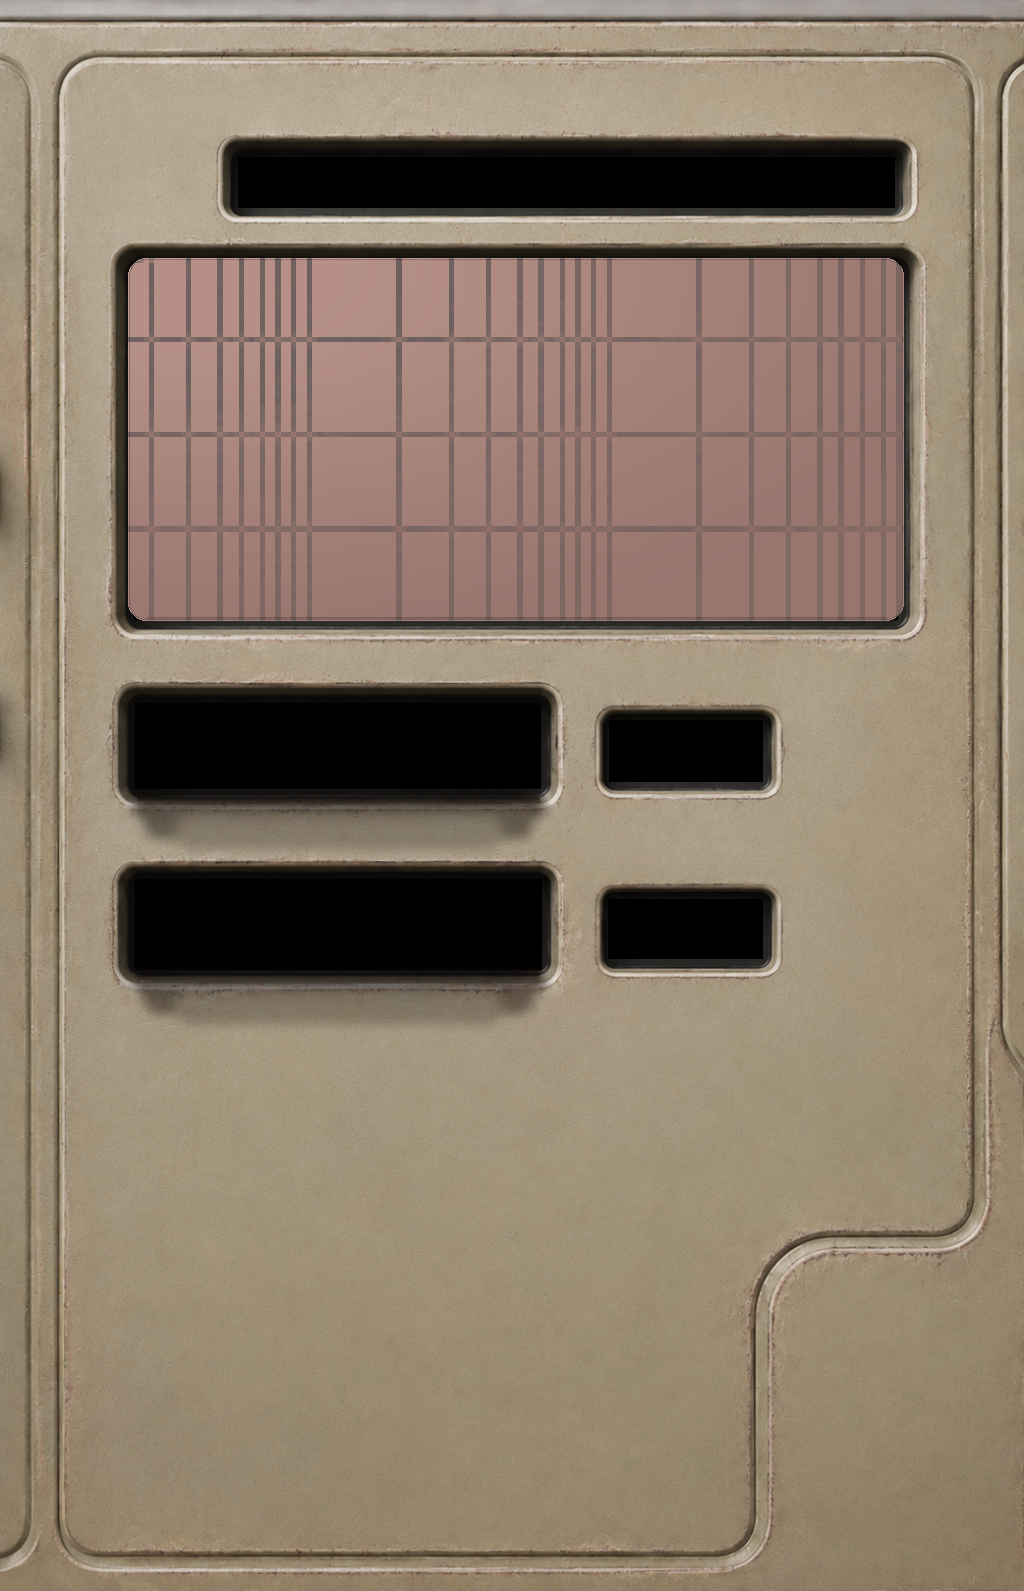
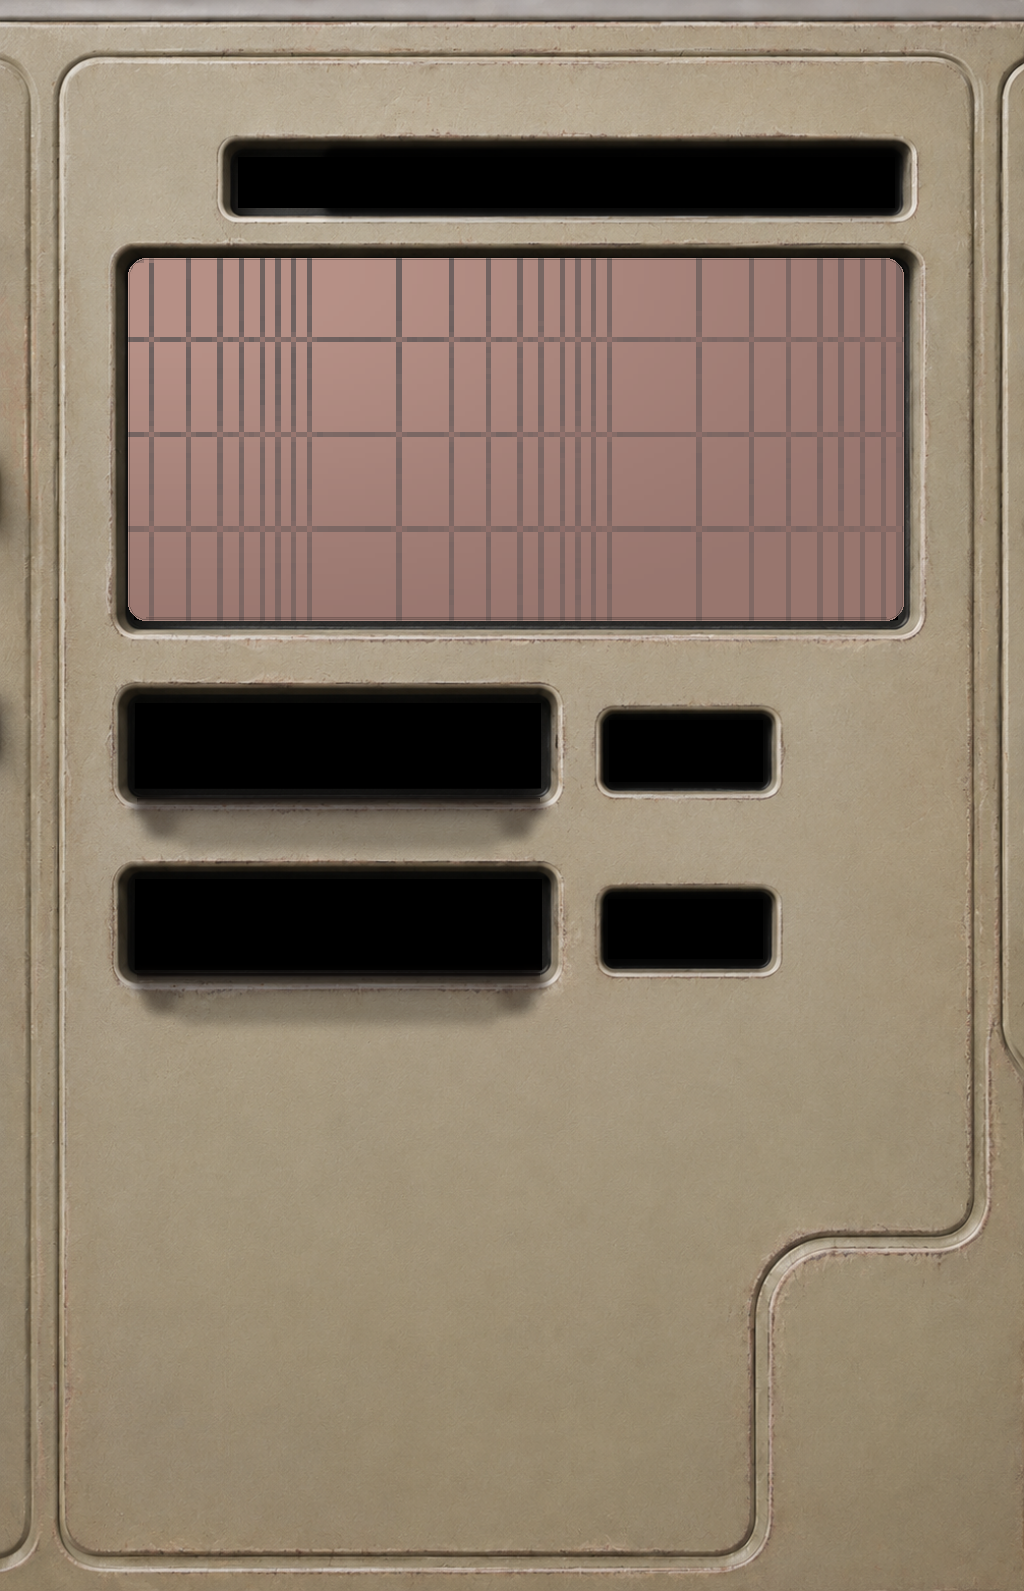
wip(juce-shell): editor Timer + asset updates (found in working tree)
Not authored this session by the Forge work — PluginEditor gains a
juce::Timer and two UI PNGs changed while the painter redesign ran.
Committed separately so the Forge commits stay coherent.

Changed region(s): [[0.3125, 0.1232, 0.875, 0.154], [0.5938, 0.462, 0.75, 0.5236], [0.5938, 0.5852, 0.75, 0.616]]

diff --git a/juce-shell/source/PluginEditor.cpp b/juce-shell/source/PluginEditor.cpp
@@ -1,5 +1,6 @@
 #include "PluginEditor.h"
 #include "BinaryData.h"
+#include "TrenchBodyRoster.h"
 
 namespace
 {
@@ -45,6 +46,27 @@ juce::Rectangle<float> qWheelWell()
 {
     return sourceRectToEditor ({ 127.0f, 871.0f, 423.0f, 101.0f });
 }
+
+juce::Rectangle<float> typeSelectorWell()
+{
+    return sourceRectToEditor ({ 230.0f, 142.0f, 672.0f, 73.0f });
+}
+
+juce::Rectangle<float> morphReadoutWell()
+{
+    return sourceRectToEditor ({ 603.0f, 712.0f, 168.0f, 77.0f });
+}
+
+juce::Rectangle<float> qReadoutWell()
+{
+    return sourceRectToEditor ({ 602.0f, 889.0f, 169.0f, 79.0f });
+}
+
+juce::Font displayFont (float height, bool bold = false)
+{
+    return juce::Font (juce::FontOptions (juce::Font::getDefaultSansSerifFontName(), height,
+                                          bold ? juce::Font::bold : juce::Font::plain));
+}
 }
 
 PluginEditor::PluginEditor (PluginProcessor& p)
@@ -71,6 +93,33 @@ PluginEditor::PluginEditor (PluginProcessor& p)
     setupSlider (morphSlider);
     setupSlider (qSlider);
 
+    bodySelector.setWantsKeyboardFocus (true);
+    bodySelector.setColour (juce::ComboBox::backgroundColourId, juce::Colours::transparentBlack);
+    bodySelector.setColour (juce::ComboBox::outlineColourId, juce::Colours::transparentBlack);
+    bodySelector.setColour (juce::ComboBox::buttonColourId, juce::Colours::transparentBlack);
+    bodySelector.setColour (juce::ComboBox::arrowColourId, juce::Colours::transparentBlack);
+    bodySelector.setColour (juce::ComboBox::textColourId, juce::Colours::transparentBlack);
+    bodySelector.setTextWhenNothingSelected ({});
+    populateBodySelector();
+    bodySelector.onChange = [this]
+    {
+        if (syncingBodySelector)
+            return;
+
+        const auto selectedIndex = bodySelector.getSelectedId() - 1;
+        if (selectedIndex < 0)
+            return;
+
+        if (auto* parameter = processor.apvts.getParameter (ParamID::body))
+        {
+            parameter->beginChangeGesture();
+            parameter->setValueNotifyingHost (parameter->convertTo0to1 ((float) selectedIndex));
+            parameter->endChangeGesture();
+        }
+    };
+    addAndMakeVisible (bodySelector);
+    syncBodySelectorToParameter();
+
     morphHitTarget.setInterceptsMouseClicks (true, false);
     qHitTarget.setInterceptsMouseClicks (true, false);
     morphHitTarget.setAlwaysOnTop (true);
@@ -86,6 +135,7 @@ PluginEditor::PluginEditor (PluginProcessor& p)
     setOpaque (true);
     setResizable (false, false);
     setSize (kEditorWidth, kEditorHeight);
+    startTimerHz (24);
 }
 
 PluginEditor::~PluginEditor()
@@ -101,11 +151,17 @@ void PluginEditor::paint (juce::Graphics& g)
     if (panelImage.isValid())
         g.drawImage (panelImage, getLocalBounds().toFloat());
 
+    drawSelectorAndReadouts (g);
     drawThumbwheels (g);
 }
 
 void PluginEditor::resized()
 {
+    auto selectorBounds = typeSelectorWell();
+    const float labelWidth = 32.0f;
+    selectorBounds.removeFromLeft (labelWidth);
+
+    bodySelector.setBounds (selectorBounds.toNearestInt().reduced (1));
     morphSlider.setBounds (thumbwheelSliderBounds (morphWheelWell()));
     qSlider.setBounds (thumbwheelSliderBounds (qWheelWell()));
     morphHitTarget.setBounds (thumbwheelSliderBounds (morphWheelWell()).expanded (2, 3));
@@ -201,4 +257,157 @@ void PluginEditor::drawThumbwheelFrame (juce::Graphics& g, juce::Rectangle<float
     g.drawImage (thumbwheelStrip,
                  dst.getX(), dst.getY(), dst.getWidth(), dst.getHeight(),
                  srcX, 0, frameWidth, frameHeight);
+}
+
+void PluginEditor::drawSelectorAndReadouts (juce::Graphics& g)
+{
+    const auto selectorBounds = typeSelectorWell();
+    
+    if (panelImage.isValid())
+    {
+        const float scaleX = panelImage.getWidth() / 360.0f;
+        const float scaleY = panelImage.getHeight() / 560.0f;
+        const float srcX = selectorBounds.getX() * scaleX;
+        const float srcY = selectorBounds.getY() * scaleY;
+        const float srcW = selectorBounds.getWidth() * scaleX;
+        const float srcH = selectorBounds.getHeight() * scaleY;
+        const float cleanSrcY = juce::jmax (0.0f, srcY - srcH - 15.0f);
+        
+        g.drawImage (panelImage,
+                     juce::roundToInt (selectorBounds.getX()), juce::roundToInt (selectorBounds.getY()), 
+                     juce::roundToInt (selectorBounds.getWidth()), juce::roundToInt (selectorBounds.getHeight()),
+                     juce::roundToInt (srcX), juce::roundToInt (cleanSrcY), 
+                     juce::roundToInt (srcW), juce::roundToInt (srcH));
+    }
+
+    auto buttonBounds = selectorBounds;
+    const float labelWidth = 32.0f;
+    auto labelArea = buttonBounds.removeFromLeft (labelWidth);
+
+    g.setFont (displayFont (9.0f, true));
+    g.setColour (juce::Colour (0xff333333));
+    g.drawFittedText ("TYPE", labelArea.toNearestInt(), juce::Justification::centredLeft, 1);
+
+    drawDisplayWell (g, buttonBounds);
+
+    const auto selectedIndex = bodySelector.getSelectedId() - 1;
+    const auto typeText = selectedIndex >= 0 ? trench::bodyDisplayName (selectedIndex)
+                                             : juce::String ("TYPE");
+
+    auto selectorText = buttonBounds.reduced (8.0f, 2.0f);
+    const float arrowBoxWidth = buttonBounds.getHeight();
+    auto arrowBox = selectorText.removeFromRight (arrowBoxWidth);
+
+    // Regular weight (non-bold) for clean typography
+    g.setFont (displayFont (12.0f, false));
+    g.setColour (juce::Colours::black);
+    g.drawFittedText (typeText, selectorText.toNearestInt(), juce::Justification::centredLeft, 1);
+
+    g.setColour (juce::Colour (0xff909090));
+    g.drawVerticalLine (juce::roundToInt (buttonBounds.getX() + buttonBounds.getWidth() - arrowBoxWidth),
+                        buttonBounds.getY() + 1.0f, buttonBounds.getBottom() - 1.0f);
+
+    const auto arrow = arrowBox.withSizeKeepingCentre (6.0f, 4.0f);
+    juce::Path arrowPath;
+    arrowPath.startNewSubPath (arrow.getX(), arrow.getY());
+    arrowPath.lineTo (arrow.getCentreX(), arrow.getBottom());
+    arrowPath.lineTo (arrow.getRight(), arrow.getY());
+    arrowPath.closeSubPath();
+    g.setColour (juce::Colours::black);
+    g.fillPath (arrowPath);
+
+    const auto readParameter = [this] (const char* parameterID)
+    {
+        if (auto* value = processor.apvts.getRawParameterValue (parameterID))
+            return juce::jlimit (0.0f, 1.0f, value->load());
+
+        return 0.0f;
+    };
+
+    drawReadout (g, morphReadoutWell(), "MORPH", readParameter (ParamID::morph));
+    drawReadout (g, qReadoutWell(), "Q", readParameter (ParamID::q));
+}
+
+void PluginEditor::drawDisplayWell (juce::Graphics& g, juce::Rectangle<float> bounds)
+{
+    if (panelImage.isValid())
+    {
+        const float scaleX = panelImage.getWidth() / 360.0f;
+        const float scaleY = panelImage.getHeight() / 560.0f;
+        const float srcX = bounds.getX() * scaleX;
+        const float srcY = bounds.getY() * scaleY;
+        const float srcW = bounds.getWidth() * scaleX;
+        const float srcH = bounds.getHeight() * scaleY;
+        const float cleanSrcY = juce::jmax (0.0f, srcY - srcH - 15.0f);
+        
+        g.drawImage (panelImage,
+                     juce::roundToInt (bounds.getX()), juce::roundToInt (bounds.getY()), 
+                     juce::roundToInt (bounds.getWidth()), juce::roundToInt (bounds.getHeight()),
+                     juce::roundToInt (srcX), juce::roundToInt (cleanSrcY), 
+                     juce::roundToInt (srcW), juce::roundToInt (srcH));
+    }
+
+    const auto r = bounds.reduced (1.0f);
+    const auto radius = 3.0f;
+
+    // Outer drop shadow (thick but small)
+    g.setColour (juce::Colours::black.withAlpha (0.22f));
+    g.fillRoundedRectangle (r.translated (0.0f, 1.5f), radius);
+    g.setColour (juce::Colours::black.withAlpha (0.12f));
+    g.fillRoundedRectangle (r.translated (0.0f, 0.8f), radius);
+
+    // Button gradient background
+    juce::ColourGradient grad (juce::Colour (0xfffafafa), r.getX(), r.getY(),
+                               juce::Colour (0xffcfcfcf), r.getX(), r.getBottom(), false);
+    g.setGradientFill (grad);
+    g.fillRoundedRectangle (r, radius);
+
+    // Outer border
+    g.setColour (juce::Colour (0xff707070));
+    g.drawRoundedRectangle (r, radius, 1.0f);
+
+    // Diagonal gradient bevel inner border
+    juce::ColourGradient bevelGrad (juce::Colours::white.withAlpha (0.9f), r.getX() + 1.0f, r.getY() + 1.0f,
+                                    juce::Colours::black.withAlpha (0.24f), r.getRight() - 1.0f, r.getBottom() - 1.0f, false);
+    g.setGradientFill (bevelGrad);
+    g.drawRoundedRectangle (r.reduced (1.0f), radius - 0.5f, 1.0f);
+}
+
+void PluginEditor::drawReadout (juce::Graphics& g, juce::Rectangle<float> bounds, const juce::String&, float value)
+{
+    drawDisplayWell (g, bounds);
+
+    const auto pct = juce::jlimit (0.0f, 1.0f, value) * 100.0f;
+    const auto numeric = juce::String (pct, 1);
+
+    // Regular weight (non-bold) for clean typography
+    g.setFont (displayFont (13.0f, false));
+    g.setColour (juce::Colours::black);
+    g.drawFittedText (numeric, bounds.toNearestInt(), juce::Justification::centred, 1);
+}
+
+void PluginEditor::populateBodySelector()
+{
+    bodySelector.clear (juce::dontSendNotification);
+
+    int count = 0;
+    const auto* entries = trench::bodyRoster (count);
+    for (int i = 0; i < count; ++i)
+        bodySelector.addItem (entries[i].displayName, i + 1);
+}
+
+void PluginEditor::syncBodySelectorToParameter()
+{
+    if (auto* value = processor.apvts.getRawParameterValue (ParamID::body))
+    {
+        syncingBodySelector = true;
+        bodySelector.setSelectedId (juce::roundToInt (value->load()) + 1, juce::dontSendNotification);
+        syncingBodySelector = false;
+    }
+}
+
+void PluginEditor::timerCallback()
+{
+    syncBodySelectorToParameter();
+    repaint();
 }

diff --git a/juce-shell/source/PluginEditor.h b/juce-shell/source/PluginEditor.h
@@ -6,7 +6,8 @@
 #include <juce_gui_basics/juce_gui_basics.h>
 #include <memory>
 
-class PluginEditor final : public juce::AudioProcessorEditor
+class PluginEditor final : public juce::AudioProcessorEditor,
+                           private juce::Timer
 {
 public:
     explicit PluginEditor (PluginProcessor&);
@@ -21,8 +22,15 @@ public:
 private:
     void drawThumbwheels (juce::Graphics&);
     void drawThumbwheelFrame (juce::Graphics&, juce::Rectangle<float>, float);
+    void drawSelectorAndReadouts (juce::Graphics&);
+    void drawDisplayWell (juce::Graphics&, juce::Rectangle<float>);
+    void drawReadout (juce::Graphics&, juce::Rectangle<float>, const juce::String&, float);
+    void populateBodySelector();
+    void syncBodySelectorToParameter();
+    void timerCallback() override;
 
     PluginProcessor& processor;
+    juce::ComboBox bodySelector;
     juce::Slider morphSlider;
     juce::Slider qSlider;
     juce::Component morphHitTarget;
@@ -30,6 +38,7 @@ private:
     const char* activeThumbwheelParameter = nullptr;
     std::unique_ptr<juce::AudioProcessorValueTreeState::SliderAttachment> morphSliderAttachment;
     std::unique_ptr<juce::AudioProcessorValueTreeState::SliderAttachment> qSliderAttachment;
+    bool syncingBodySelector = false;
     juce::Image panelImage;
     juce::Image thumbwheelStrip;
 
